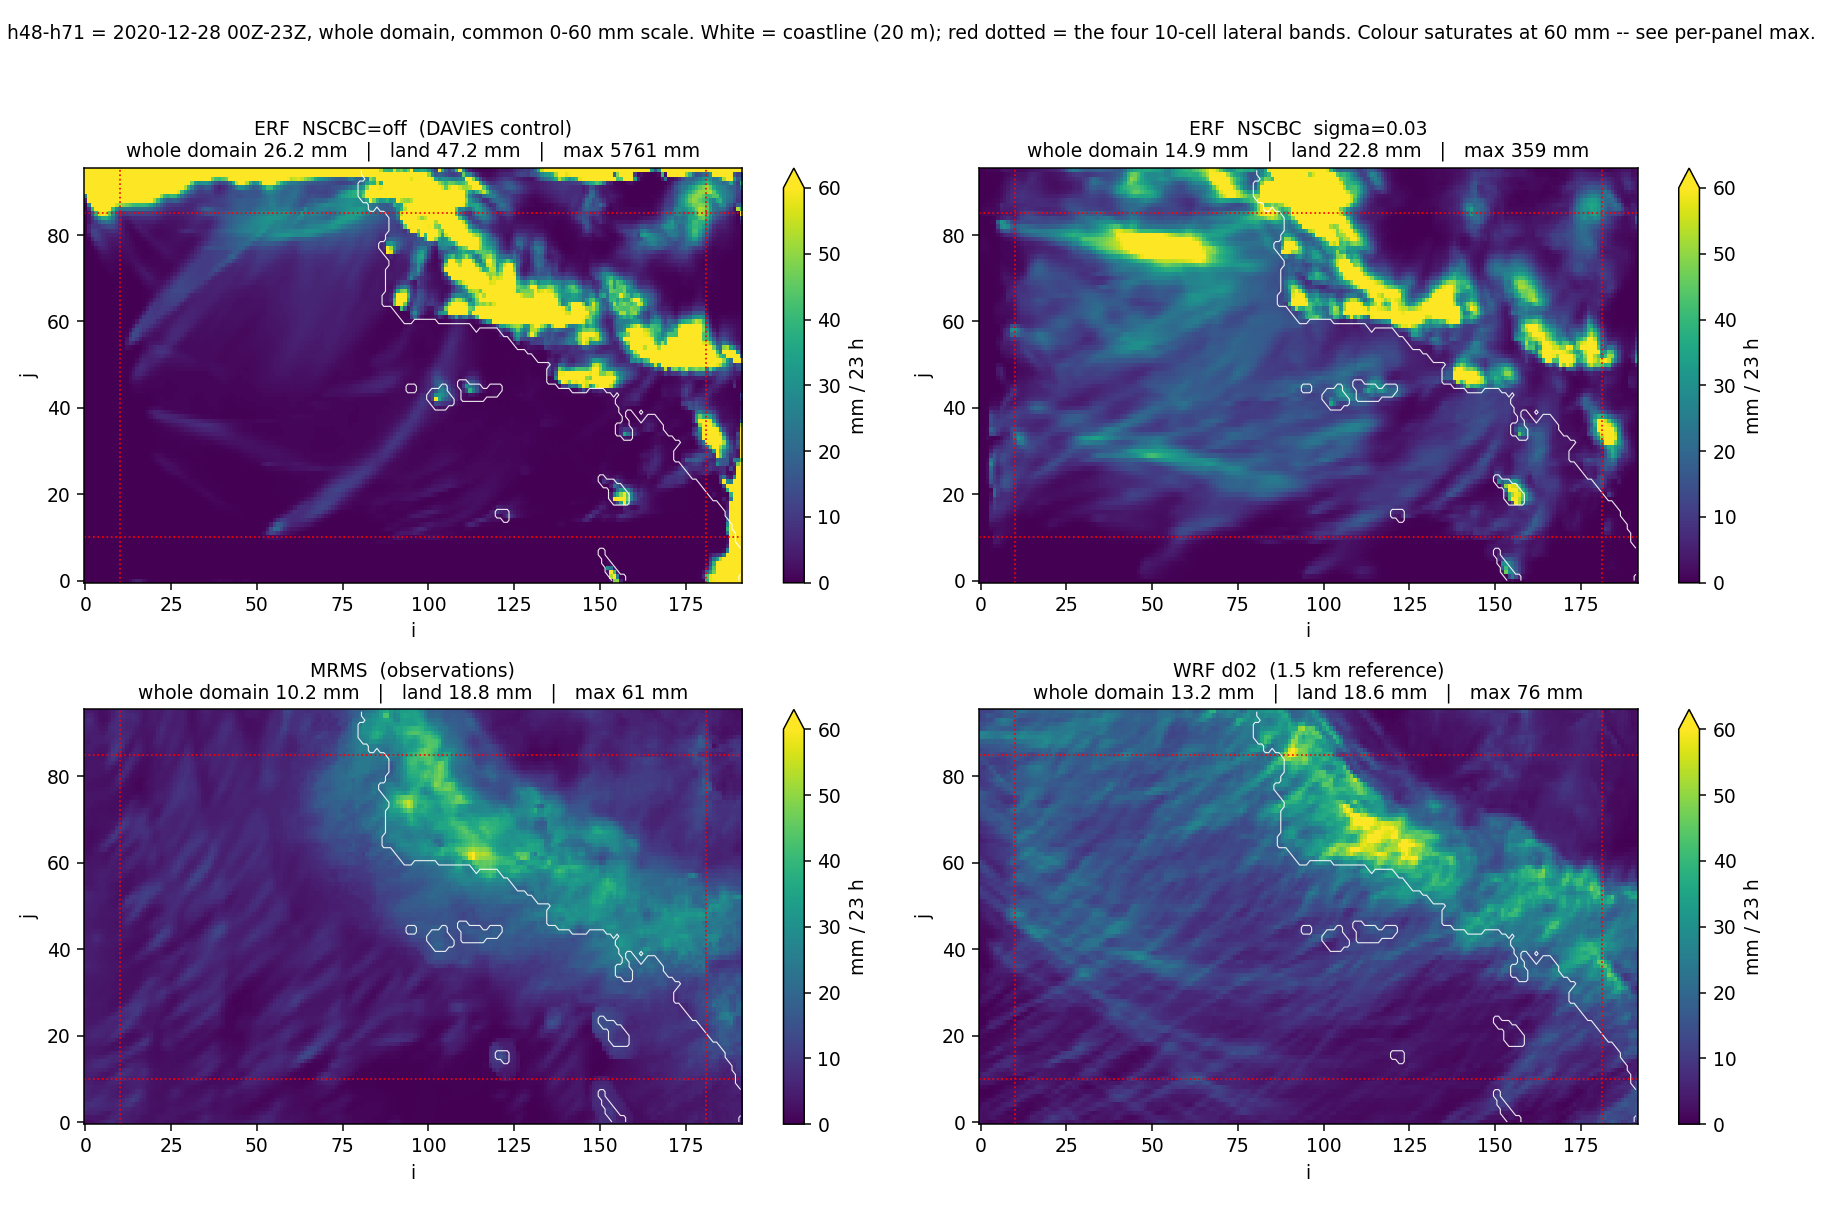
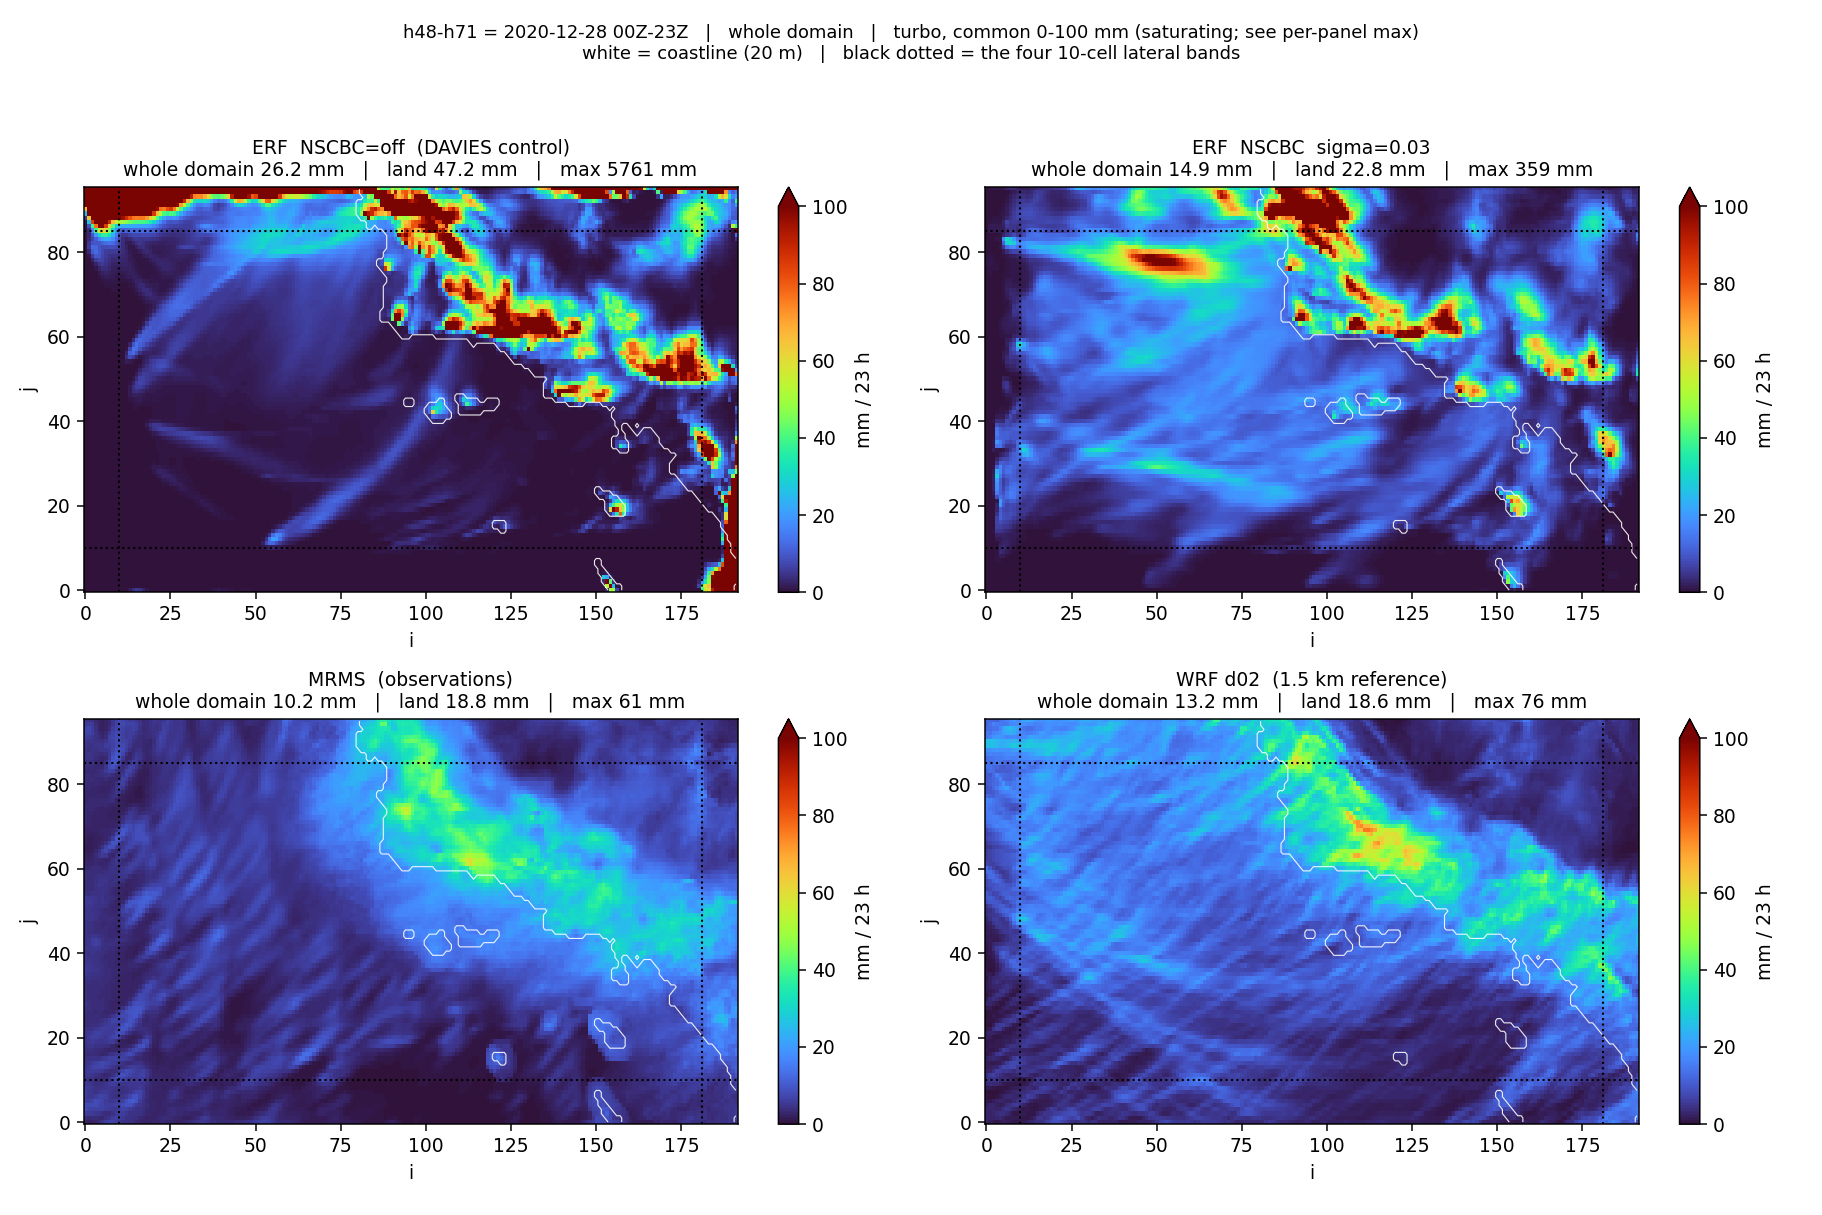
four_panel: turbo colormap, 0-100 mm
Band markers switched red -> black: turbo's high end is red, so red dotted
lines vanished exactly where the band excess is largest. Suptitle shortened to
two lines; at one line it was clipped at both figure edges.

diff --git a/Exec/CanonicalTests/ChannelIslands/scoring/four_panel.py b/Exec/CanonicalTests/ChannelIslands/scoring/four_panel.py
@@ -1,9 +1,9 @@
 #!/usr/bin/env python3
-"""One 2x2 comparison: Davies / NSCBC over MRMS / d02, whole domain, 0-60 mm.
+"""One 2x2 comparison: Davies / NSCBC over MRMS / d02, whole domain, 0-100 mm.
 
   four_panel.py <outpath.png>
 
-Whole domain, every cell, common 0-60 mm scale so the four panels are directly
+Whole domain, every cell, common 0-100 mm scale so the four panels are directly
 comparable by eye. Window h48-h71 = 2020-12-28 00Z-23Z.
 
 Also prints a bias decomposition: how much of each arm's excess over d02 sits
@@ -21,7 +21,7 @@ from plt_guard import is_poisoned, plotfiles_by_time
 
 yt.set_log_level(50)
 NX, NY, BAND = 192, 96, 10
-VMAX = 60.0
+VMAX = 100.0
 H0, H1 = 48, 71
 
 
@@ -64,7 +64,7 @@ def main():
     fig, ax = plt.subplots(2, 2, figsize=(13.5, 9))
     for a, (arr, title) in zip(ax.flat, panels):
         p = a.imshow(arr.T, origin='lower', vmin=0, vmax=VMAX,
-                     cmap='viridis', aspect='auto')
+                     cmap='turbo', aspect='auto')
         a.set_title(f'{title}\nwhole domain {np.nanmean(arr):.1f} mm   |   '
                     f'land {np.nanmean(arr[M]):.1f} mm   |   '
                     f'max {np.nanmax(arr):.0f} mm', fontsize=10)
@@ -72,13 +72,14 @@ def main():
         a.contour(LAND.T.astype(float), levels=[0.5], colors='w',
                   linewidths=0.6, alpha=0.9)
         for e in (BAND, NX - 1 - BAND):
-            a.axvline(e, color='r', ls=':', lw=0.9)
+            a.axvline(e, color='k', ls=':', lw=1.1)
         for e in (BAND, NY - 1 - BAND):
-            a.axhline(e, color='r', ls=':', lw=0.9)
+            a.axhline(e, color='k', ls=':', lw=1.1)
         a.set_xlabel('i'); a.set_ylabel('j')
-    fig.suptitle('h48-h71 = 2020-12-28 00Z-23Z, whole domain, common 0-60 mm scale. '
-                 'White = coastline (20 m); red dotted = the four 10-cell lateral bands. '
-                 'Colour saturates at 60 mm -- see per-panel max.', fontsize=10)
+    fig.suptitle('h48-h71 = 2020-12-28 00Z-23Z   |   whole domain   |   turbo, '
+                 'common 0-100 mm (saturating; see per-panel max)\n'
+                 'white = coastline (20 m)   |   black dotted = the four '
+                 '10-cell lateral bands', fontsize=9.5)
     fig.tight_layout(rect=[0, 0.01, 1, 0.95])
     fig.savefig(outp, dpi=135)
     plt.close(fig)
